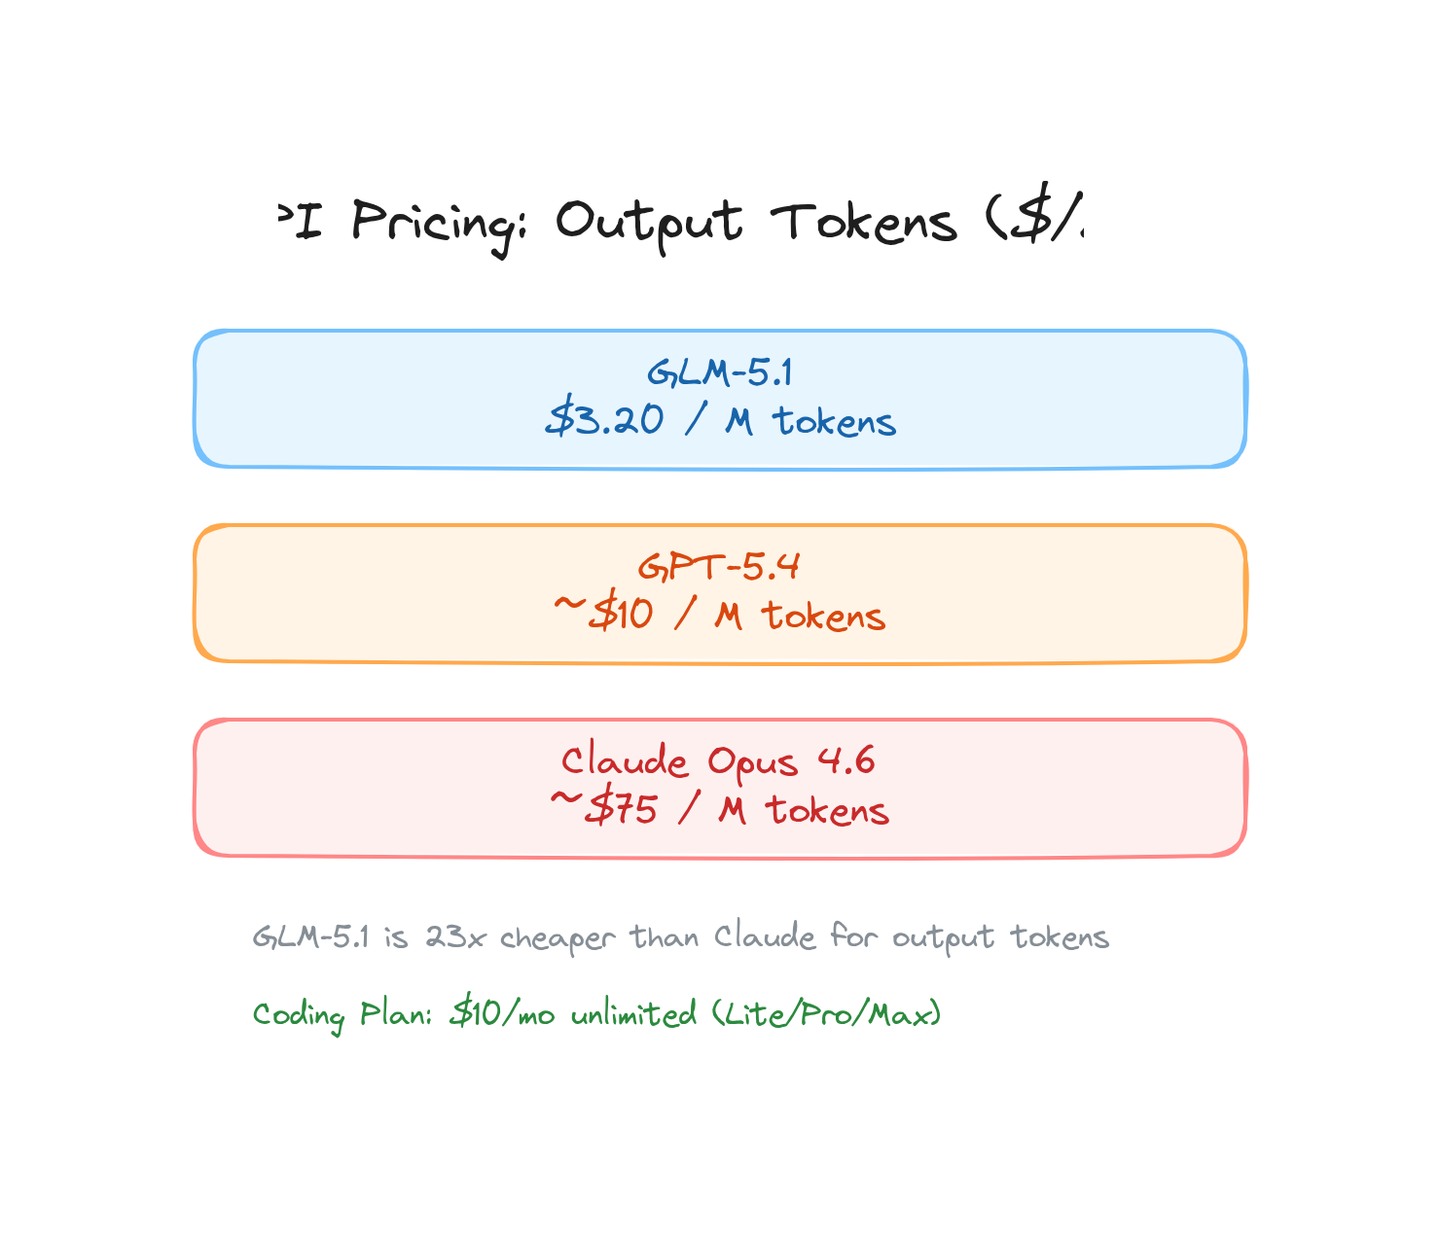
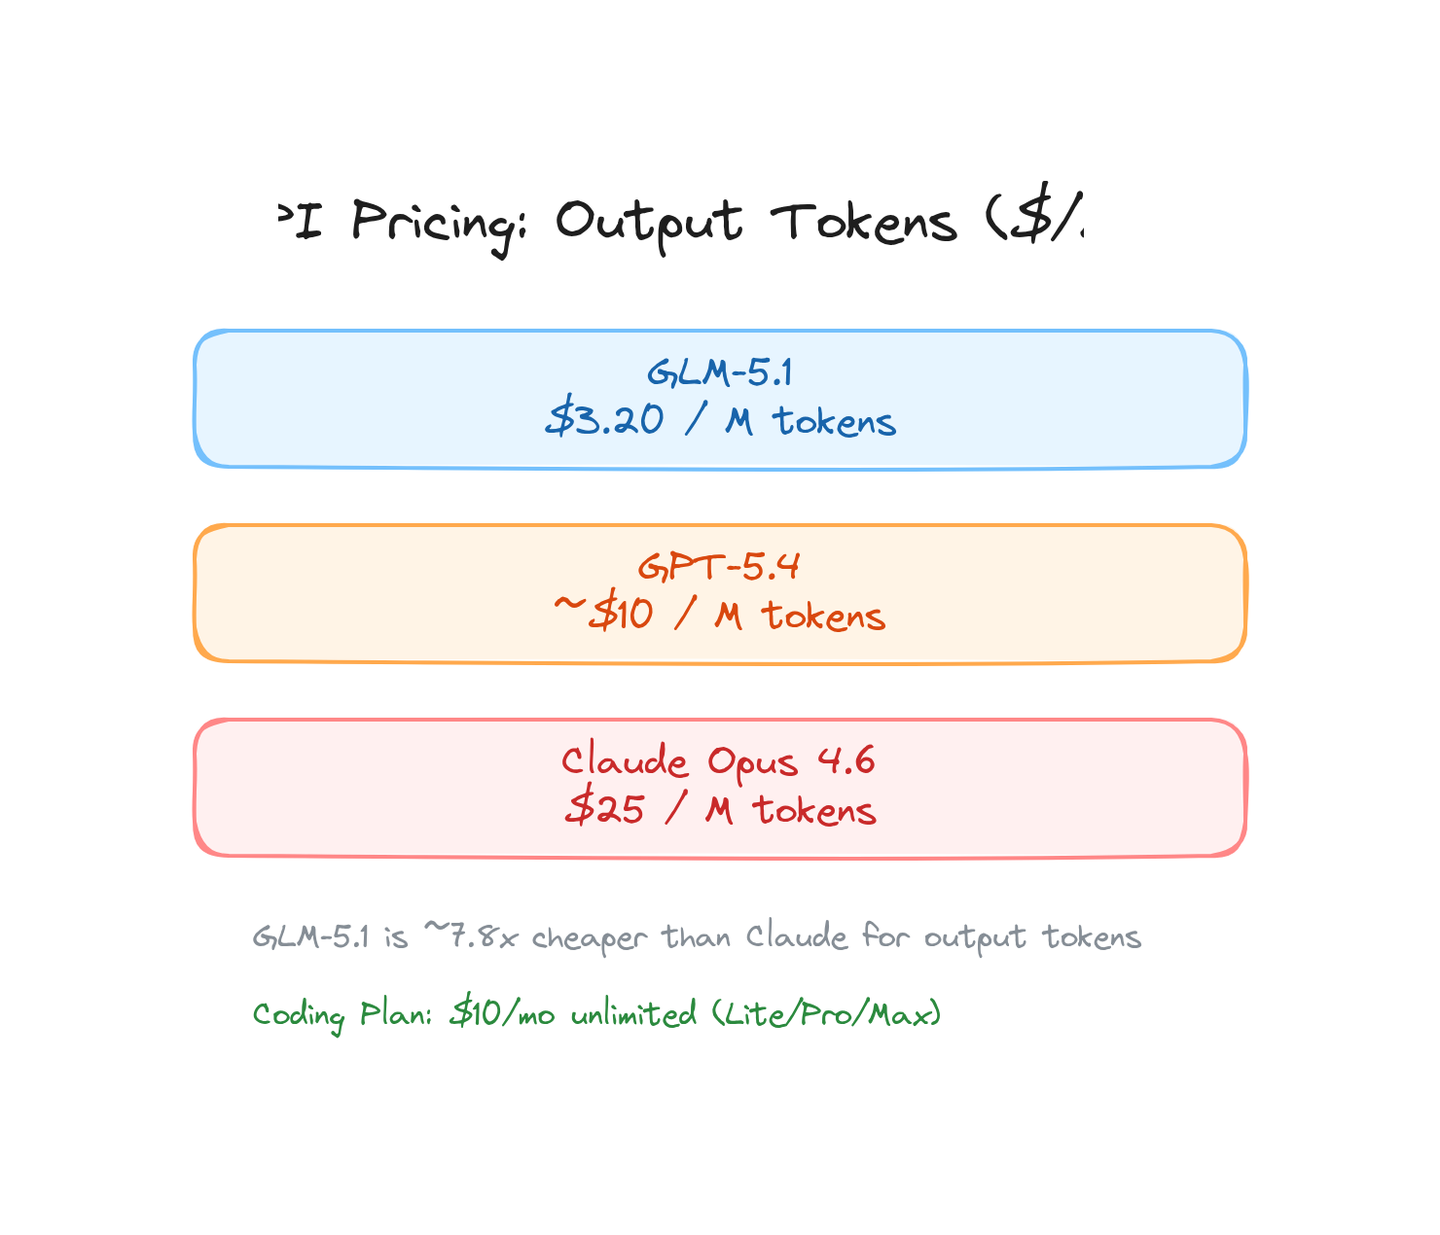
Article: GLM-5.1 - fact-check corrections (pricing, valuation, params, caveats)

Changed region(s): [[0.2812, 0.7385, 0.7812, 0.7692], [0.375, 0.6154, 0.625, 0.6769]]

diff --git a/articles/glm-5-1-review/index.html b/articles/glm-5-1-review/index.html
@@ -145,15 +145,15 @@
 </head>
 <body>
     <article>
-        <h1>GLM-5.1: 94% of Claude Opus Coding at 1/8th the Price</h1>
+        <h1>GLM-5.1: 94% of Claude Opus Coding at a Fraction of the Price</h1>
         <p class="subtitle">Z.ai's post-training upgrade narrows the open-vs-closed gap to 2.6 points — trained entirely without Nvidia hardware</p>
         <div class="meta">April 7, 2026 · AI Models · 8 min read</div>
 
-        <p>On March 27, 2026, Z.ai (formerly Zhipu AI) quietly released GLM-5.1 — a post-training upgrade to their flagship GLM-5 model. No keynote. No livestream. Just a model drop that sent shockwaves through the developer community.</p>
+        <p>On March 27, 2026, Z.ai (formerly Zhipu AI) quietly released GLM-5.1 — a post-training upgrade to their flagship GLM-5 model. No keynote. No livestream. Just a model drop that got developers talking.</p>
 
-        <p>Why? Because this model codes at <strong>94.6% of Claude Opus 4.6's level</strong>, costs <strong>$3.20 per million output tokens</strong> (vs Claude's ~$25), and was trained entirely on Huawei Ascend chips — without a single Nvidia GPU in sight.</p>
+        <p>Why? Because this model codes at <strong>94.6% of Claude Opus 4.6's level</strong> (per Z.ai's own benchmarks), costs <strong>$3.20 per million output tokens</strong> (vs Claude's $25), and was trained entirely on Huawei Ascend chips — without a single Nvidia GPU in sight.</p>
 
-        <p>If you're paying $200/month for Claude Pro and wondering if there's a better way, this one's for you.</p>
+        <p>If you're paying $100-200/month for Claude Max and wondering if there's a better way, this one's for you.</p>
 
         <hr>
 
@@ -180,10 +180,14 @@
             </div>
         </div>
 
+        <blockquote>
+            Important caveat: The 45.3 coding score and 94.6% figure are Z.ai's own benchmarks, measured using Claude Code as the testing instrument. As of this writing, they have not been independently verified by third-party evaluation labs. Take them as promising early signals, not settled science.
+        </blockquote>
+
         <ul>
             <li><strong>Coding Score:</strong> 45.3 points — up from GLM-5's 35.4 (a 28% jump)</li>
             <li><strong>Gap to Opus 4.6:</strong> Just 2.6 points (Claude scored 47.9)</li>
-            <li><strong>SWE-bench Verified:</strong> 77.8% — only 3.6 percentage points behind Claude Opus 4.6 (~81.4%)</li>
+            <li><strong>SWE-bench Verified:</strong> 77.8% for GLM-5 (GLM-5.1's independent SWE-bench score is not yet published) — only 3.6 percentage points behind Claude Opus 4.6 (~81.4%)</li>
             <li><strong>LMArena:</strong> #1 among open-weights models on both Text Arena and Code Arena</li>
             <li><strong>Context window:</strong> 200K tokens (~300 pages of text)</li>
         </ul>
@@ -194,20 +198,20 @@
 
         <h2>The Price Destroyer: GLM-5.1 vs Everyone Else</h2>
 
-        <p>This is where it gets absurd. Let's talk about API pricing:</p>
+        <p>This is where it gets interesting. Let's talk about API pricing:</p>
 
         <img src="https://vinoth12940.github.io/blog/articles/glm-5-1-review/images/pricing-comparison.png" alt="Price comparison chart: GLM-5.1 vs Claude Opus vs GPT-5.4">
         <p class="caption">API pricing per million tokens — output prices. GLM-5.1 dramatically undercuts the competition.</p>
 
         <ul>
             <li><strong>GLM-5.1:</strong> $1.00 input / $3.20 output per million tokens</li>
-            <li><strong>Claude Opus 4.6:</strong> ~$15 input / ~$75 output per million tokens</li>
+            <li><strong>Claude Opus 4.6:</strong> $5 input / $25 output per million tokens</li>
             <li><strong>GPT-5.4:</strong> ~$2.50 input / ~$10 output per million tokens</li>
             <li><strong>Coding Plan:</strong> $10/month for unlimited use (Lite/Pro/Max tiers)</li>
         </ul>
 
         <blockquote>
-            At $3.20 per million output tokens vs Claude's ~$75, GLM-5.1 is roughly <strong>23x cheaper</strong> for output-heavy coding workflows. Even compared to GPT-5.4, it's 3x cheaper.
+            At $3.20 per million output tokens vs Claude's $25, GLM-5.1 is roughly <strong>7.8x cheaper</strong> for output-heavy coding workflows. Even compared to GPT-5.4, it's 3x cheaper.
         </blockquote>
 
         <p>For the $10/month Coding Plan, you get unlimited access to GLM-5.1 across all tiers (Lite, Pro, Max). That's not a typo. Ten dollars a month for near-Claude-level coding.</p>
@@ -216,7 +220,7 @@
 
         <h2>Trained Entirely on Huawei Chips — No Nvidia Required</h2>
 
-        <p>Here's the part that has the industry talking: GLM-5 (and by extension, GLM-5.1) was trained on <strong>100,000 Huawei Ascend 910 AI processors</strong> using the MindSpore framework. Zero Nvidia GPUs.</p>
+        <p>Here's the part that has the industry talking: GLM-5 (and by extension, GLM-5.1) was trained on <strong>100,000 Huawei Ascend 910B AI processors</strong> using the MindSpore framework. Zero Nvidia GPUs.</p>
 
         <p>Zhipu developed custom optimizations for Huawei's architecture:</p>
 
@@ -229,7 +233,7 @@
         <p>This isn't just a technical flex. It's proof that the <strong>Nvidia moat is narrowing</strong>. US export controls on advanced AI chips were designed to slow Chinese AI development. Instead, they accelerated domestic chip investment. GLM-5.1 is living proof.</p>
 
         <blockquote>
-            A 744B parameter model (44B active, Mixture-of-Experts), MIT-licensed, trained on Chinese silicon, coding at 94.6% of Claude. The geopolitical implications are massive.
+            A 744B parameter model (40B active, Mixture-of-Experts), MIT-licensed, trained on Chinese silicon, coding at 94.6% of Claude. The geopolitical implications are significant.
         </blockquote>
 
         <hr>
@@ -265,7 +269,7 @@
 
         <p>The result? My monthly AI bill dropped from ~$50 to <strong>$10</strong> — while getting better code output. The 28% coding improvement over GLM-5 is immediately noticeable in debugging sessions and code review.</p>
 
-        <p>For agentic workflows — where the AI autonomously writes, tests, and iterates on code — GLM-5.1's compatibility with <strong>Claude Code</strong> and <strong>OpenClaw</strong> is a huge win. Drop-in replacement, same tooling.</p>
+        <p>For agentic workflows — where the AI autonomously writes, tests, and iterates on code — GLM-5.1's compatibility with <strong>Claude Code</strong> and <strong>OpenCode</strong> is a huge win. Drop-in replacement, same tooling.</p>
 
         <hr>
 
@@ -276,17 +280,17 @@
         <ul>
             <li><strong>GLM-5 weights:</strong> Available now on HuggingFace and GitHub (MIT license)</li>
             <li><strong>GLM-5.1 weights:</strong> Confirmed MIT, release date TBD</li>
-            <li><strong>Architecture:</strong> 744B total parameters, 44B active (Mixture-of-Experts)</li>
-            <li><strong>Training hardware:</strong> 100,000 Huawei Ascend 910 processors</li>
+            <li><strong>Architecture:</strong> 744B total parameters, 40B active (Mixture-of-Experts)</li>
+            <li><strong>Training hardware:</strong> 100,000 Huawei Ascend 910B processors</li>
         </ul>
 
-        <p>When the weights drop, expect the community to quantize it (GGUF, GPTQ) within days. A 44B active-parameter MoE model quantized to Q4 could run on consumer hardware — think Mac Mini M4 with 24GB RAM, or a single RTX 4090.</p>
+        <p>When the weights drop, expect the community to quantize it (GGUF, GPTQ) within days. A 40B active-parameter MoE model quantized to Q4 could run on consumer hardware — think Mac Mini M4 with 24GB RAM, or a single RTX 4090.</p>
 
         <hr>
 
         <h2>Z.ai: The Company Behind the Model</h2>
 
-        <p>Zhipu AI (rebranded as Z.ai) IPO'd on the Hong Kong Stock Exchange in January 2026 at a <strong>$31.3 billion valuation</strong> — making it one of the most valuable AI companies in China. They're not a startup scrapping by. They're a well-funded competitor to OpenAI, Anthropic, and Google DeepMind.</p>
+        <p>Zhipu AI (rebranded as Z.ai) went public on the Hong Kong Stock Exchange in January 2026, raising approximately USD $559 million at a valuation of around <strong>$6.57 billion</strong> — making it one of the most valuable AI companies in China. They're a well-funded competitor to OpenAI, Anthropic, and Google DeepMind.</p>
 
         <p>The GLM family tree:</p>
 
@@ -326,7 +330,7 @@
             </ul>
         </div>
 
-        <p>The $10/month Coding Plan is a no-brainer to test. If you're paying $200/month for Claude Pro, try routing just your coding tasks through GLM-5.1 for a week. You might be surprised.</p>
+        <p>The $10/month Coding Plan is a no-brainer to test. If you're paying $100-200/month for Claude Max, try routing just your coding tasks through GLM-5.1 for a week. You might be surprised.</p>
 
         <hr>
 
@@ -341,7 +345,7 @@
             <li>Smart model routing beats <strong>single-model loyalty</strong> every time</li>
         </ul>
 
-        <p>The question isn't whether open-source AI will catch up to closed-source. It's whether the closed-source companies can justify their pricing when it does.</p>
+        <p>The question isn't whether open-source AI will catch up to closed-source. It's whether closed-source companies can justify their pricing once parity arrives.</p>
 
         <p>GLM-5.1 suggests they can't.</p>
 

diff --git a/index.html b/index.html
@@ -29,7 +29,7 @@
 <p class="tagline">AI, Infrastructure & Open Source</p>
 
 <a class="article-card" href="/blog/articles/glm-5-1-review/">
-  <h2>GLM-5.1: 94% of Claude Opus Coding at 1/8th the Price</h2>
+  <h2>GLM-5.1: 94% of Claude Opus Coding at a Fraction of the Price</h2>
   <div class="date">April 7, 2026 · AI Models / Open Source</div>
   <div class="desc">Z.ai's GLM-5.1 codes at 94.6% of Claude Opus 4.6, costs $3.20/M tokens, and was trained entirely on Huawei chips. Here's why it changes everything.</div>
   <span class="read-more">Read article →</span>
